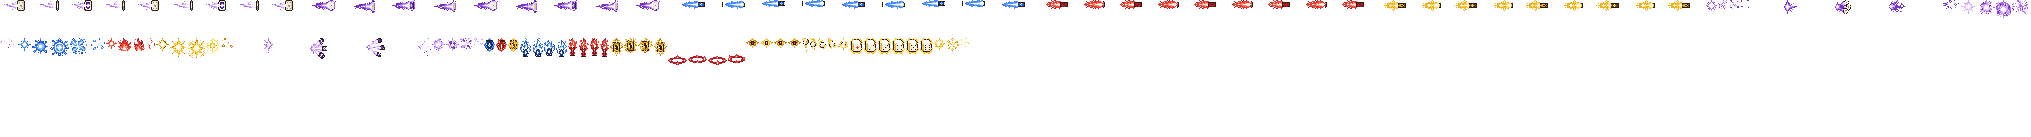
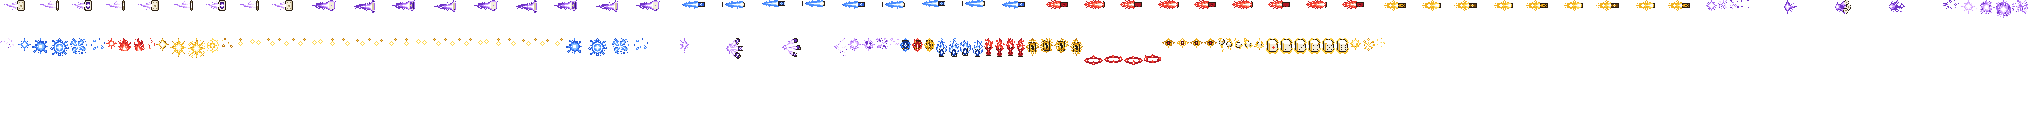
Twisted Fate: the gold card's stun mark, the blue card's refund on him
The user: 「卡牌眩晕后没记号的吗？敌方英雄」, 「蓝牌也没特效」. wg_stun: three gold stars turning over the stunned head for the
stun's 100 ticks (drawn in import_twistedfate.py in the pack's gold, like the pack's other heroes' stun marks); wb_back:
the blue splash's spray over his chest when the blue card hands him back his cooldowns. The showcase throws the blue
card too. Attack tree 269 nodes; lint 0 errors.

Changed region(s): [[0.1241, 0.2628, 0.6824, 0.4672], [0.5273, 0.4088, 0.5894, 0.4672]]

diff --git a/tools/art/import_twistedfate.py b/tools/art/import_twistedfate.py
@@ -227,6 +227,48 @@ def from_raw(folder):
         f.write(text)
 
 
+# the gold card's stun mark, drawn here (Codex's pack had none - the user: 「卡牌眩晕后没记号的吗？敌方英雄」; the pack's
+# League heroes all show one: Jax's, Annie's, Vayne's stars over the head): three gold stars turning on a flat ring over
+# the stunned head, the ones in front big and bright, the ones behind small and dim, STUN_N frames a turn; the pack's
+# gold ramp, no outline (light)
+STAR_FRONT = ["..h..", ".hWh.", "hWWWh", ".hWh.", "..h.."]
+STAR_BACK = [".f.", "fhf", ".f."]
+STAR_RGB = {"h": "FFD84E", "W": "FFFFFF", "f": "C07A10"}
+STUN_RX, STUN_RY, STUN_N = 8.0, 2.5, 8
+
+
+def stun_strip():
+    """Writes twistedfate_fx_wg_stun.png (8x) and its anchors entry: STUN_N cells, the ring's middle the anchor."""
+    L, U = 11, 5
+    tw, th = 2 * L + 1, 2 * U + 1
+    out = np.zeros((th, tw * STUN_N, 4), np.uint8)
+    for k in range(STUN_N):
+        cell = np.zeros((th, tw, 4), np.uint8)
+        stars = []
+        for j in range(3):
+            ang = 2 * math.pi * (k / STUN_N + j / 3)
+            stars.append((math.sin(ang), L + STUN_RX * math.cos(ang), U + STUN_RY * math.sin(ang)))
+        for depth, x, y in sorted(stars):                 # the ones behind first
+            spr = STAR_FRONT if depth > -0.2 else STAR_BACK
+            h, w = len(spr), len(spr[0])
+            x0, y0 = int(round(x)) - w // 2, int(round(y)) - h // 2
+            for r, row in enumerate(spr):
+                for c, ch in enumerate(row):
+                    if ch != "." and 0 <= y0 + r < th and 0 <= x0 + c < tw:
+                        cell[y0 + r, x0 + c, :3] = [int(STAR_RGB[ch][i:i + 2], 16) for i in (0, 2, 4)]
+                        cell[y0 + r, x0 + c, 3] = 255
+        out[:, k * tw:(k + 1) * tw] = cell
+    Image.fromarray(np.repeat(np.repeat(out, Z, 0), Z, 1), "RGBA").save(
+        G.lp(os.path.join(SRC, "twistedfate_fx_wg_stun.png")))
+    path = G.lp(os.path.join(SRC, "twistedfate_fx_anchors.json"))
+    with open(path, encoding="utf-8") as f:
+        anchors = json.load(f)
+    anchors["wg_stun"] = {"cell": [tw, th], "anchor": [L, U], "frames": STUN_N}
+    text = "{\n" + ",\n".join(f'  "{k}": {json.dumps(v)}' for k, v in anchors.items()) + "\n}\n"
+    with open(path, "w", encoding="utf-8", newline="\n") as f:
+        f.write(text)
+
+
 def cells(name, n):
     a = np.asarray(Image.open(G.lp(os.path.join(SRC, f"twistedfate_fx_{name}.png"))).convert("RGBA"))
     b = a.reshape(a.shape[0] // Z, Z, a.shape[1] // Z, Z, 4)
@@ -243,6 +285,8 @@ Q_HAND = (11, -8)           # the far hand that throws Q in skill 4
 OVER = (0, -31)             # the lowest row of a picture over the head: 2 px over his hat (the idle's top -29)
 DICE = (0, -36)             # the resting die's middle (dice_faces' lowest row on OVER)
 HIT = (0, -8)               # a hit on the upper body of a 32-44 px unit
+CHEST = (-2, -10)           # his chest (the white shirt under the cravat)
+STUN = (0, -28)             # the stun ring's middle: over the head of a 36-41 px unit
 FEET = (0, 9)               # a ring on the ground round a unit's feet (the ellipse's middle 2 over the soles)
 EMPTY = J.EMPTY
 
@@ -277,6 +321,10 @@ FX = {
     "wb_hit": [("wb_hit", seq(range(5), [40, 50, 60, 70, 80]), [HIT])],
     "wr_hit": [("wr_hit", seq(range(4), [40, 50, 60, 70]), [HIT])],
     "wg_hit": [("wg_hit", seq(range(5), [40, 50, 60, 70, 80]), [HIT])],
+    # the stun: 100 ticks (wg_stun) of stars, two turns
+    "wg_stun": [("wg_stun", seq([k % STUN_N for k in range(16)], [104] * 15 + [107]), [STUN])],
+    # the blue card's refund on him: the blue splash's spray (wb_hit 2-5) over his chest
+    "wb_back": [("wb_hit", seq([1, 2, 3, 4], [50, 60, 70, 80]), [CHEST])],
     "q_cast": [("q_cast", seq(range(4), [30, 40, 50, 60]), [Q_HAND])],
     "q_hit": [("q_hit", seq(range(4), [40, 50, 60, 70]), [HIT])],
     # over the head: the shuffling card (one picture each), the locked card, the slow, Destiny's eye
@@ -327,6 +375,7 @@ def main():
     args = ap.parse_args()
     if args.raw:
         from_raw(args.raw)
+    stun_strip()
     for sheet, table in (("league_twistedfate_fx", FX), ("league_twistedfate_big", BIG)):
         tags = build(table)
         w, h = G.write_sheet(os.path.join(MOD, "effects", sheet), tags)

diff --git a/tools/art/preview_twistedfate.py b/tools/art/preview_twistedfate.py
@@ -7,9 +7,10 @@
   league_twistedfate_effects.png   every effect animation, 3x
   league_twistedfate_showcase.gif  a scripted fight against Darius with Garen behind him, timed like the kit: Twisted Fate
                                    walks in; Pick a Card shuffles blue, red and gold over his head and locks the gold
-                                   card, his next attack throws it and stuns Darius; two cards, then Stacked Deck's
-                                   fourth (the magenta flash at his hand); Wild Cards fly through both; Pick a Card
-                                   again, the red card bursts on the ground under them and slows them; Destiny marks
+                                   card, his next attack throws it and stuns Darius (gold stars over his head); a card;
+                                   the blue card (a blue splash on him: his cooldowns back); Stacked Deck's fourth (the
+                                   magenta flash at his hand); Wild Cards fly through both; Pick a Card again, the red
+                                   card bursts on the ground under them and slows them; Destiny marks
                                    both, the Gate opens round him, its mark on the ground ahead, he vanishes and lands
                                    there with a gold card that finishes Darius - Loaded Dice rolls a 4 over his head; 3x
 """
@@ -114,9 +115,14 @@ def showcase(out, z=3, step=40):
     on(me, small, "w_gold", t, until=t + tick(12))
     hit = attack("wg_card", d, "wg_hit")
     d.holds.append((hit, hit + tick(100)))
-    # two cards, then Stacked Deck's fourth
+    on(d, small, "wg_stun", hit)
+    # a card; Pick a Card again: the blue card comes up first - locked; it hits hard and hands him back his cooldowns
+    # (the blue splash on him); then Stacked Deck's fourth
     attack("a_card", d)
-    attack("a_card", d)
+    shuffle(["blue"])
+    on(me, small, "w_blue", t, until=t + tick(12))
+    hit = attack("wb_card", d, "wb_hit")
+    on(me, small, "wb_back", hit)
     attack("a_card_e", d, "e_hit", e=True)
     # Wild Cards: 115 px at 4 a tick, through both
     q = t + tick(12)
